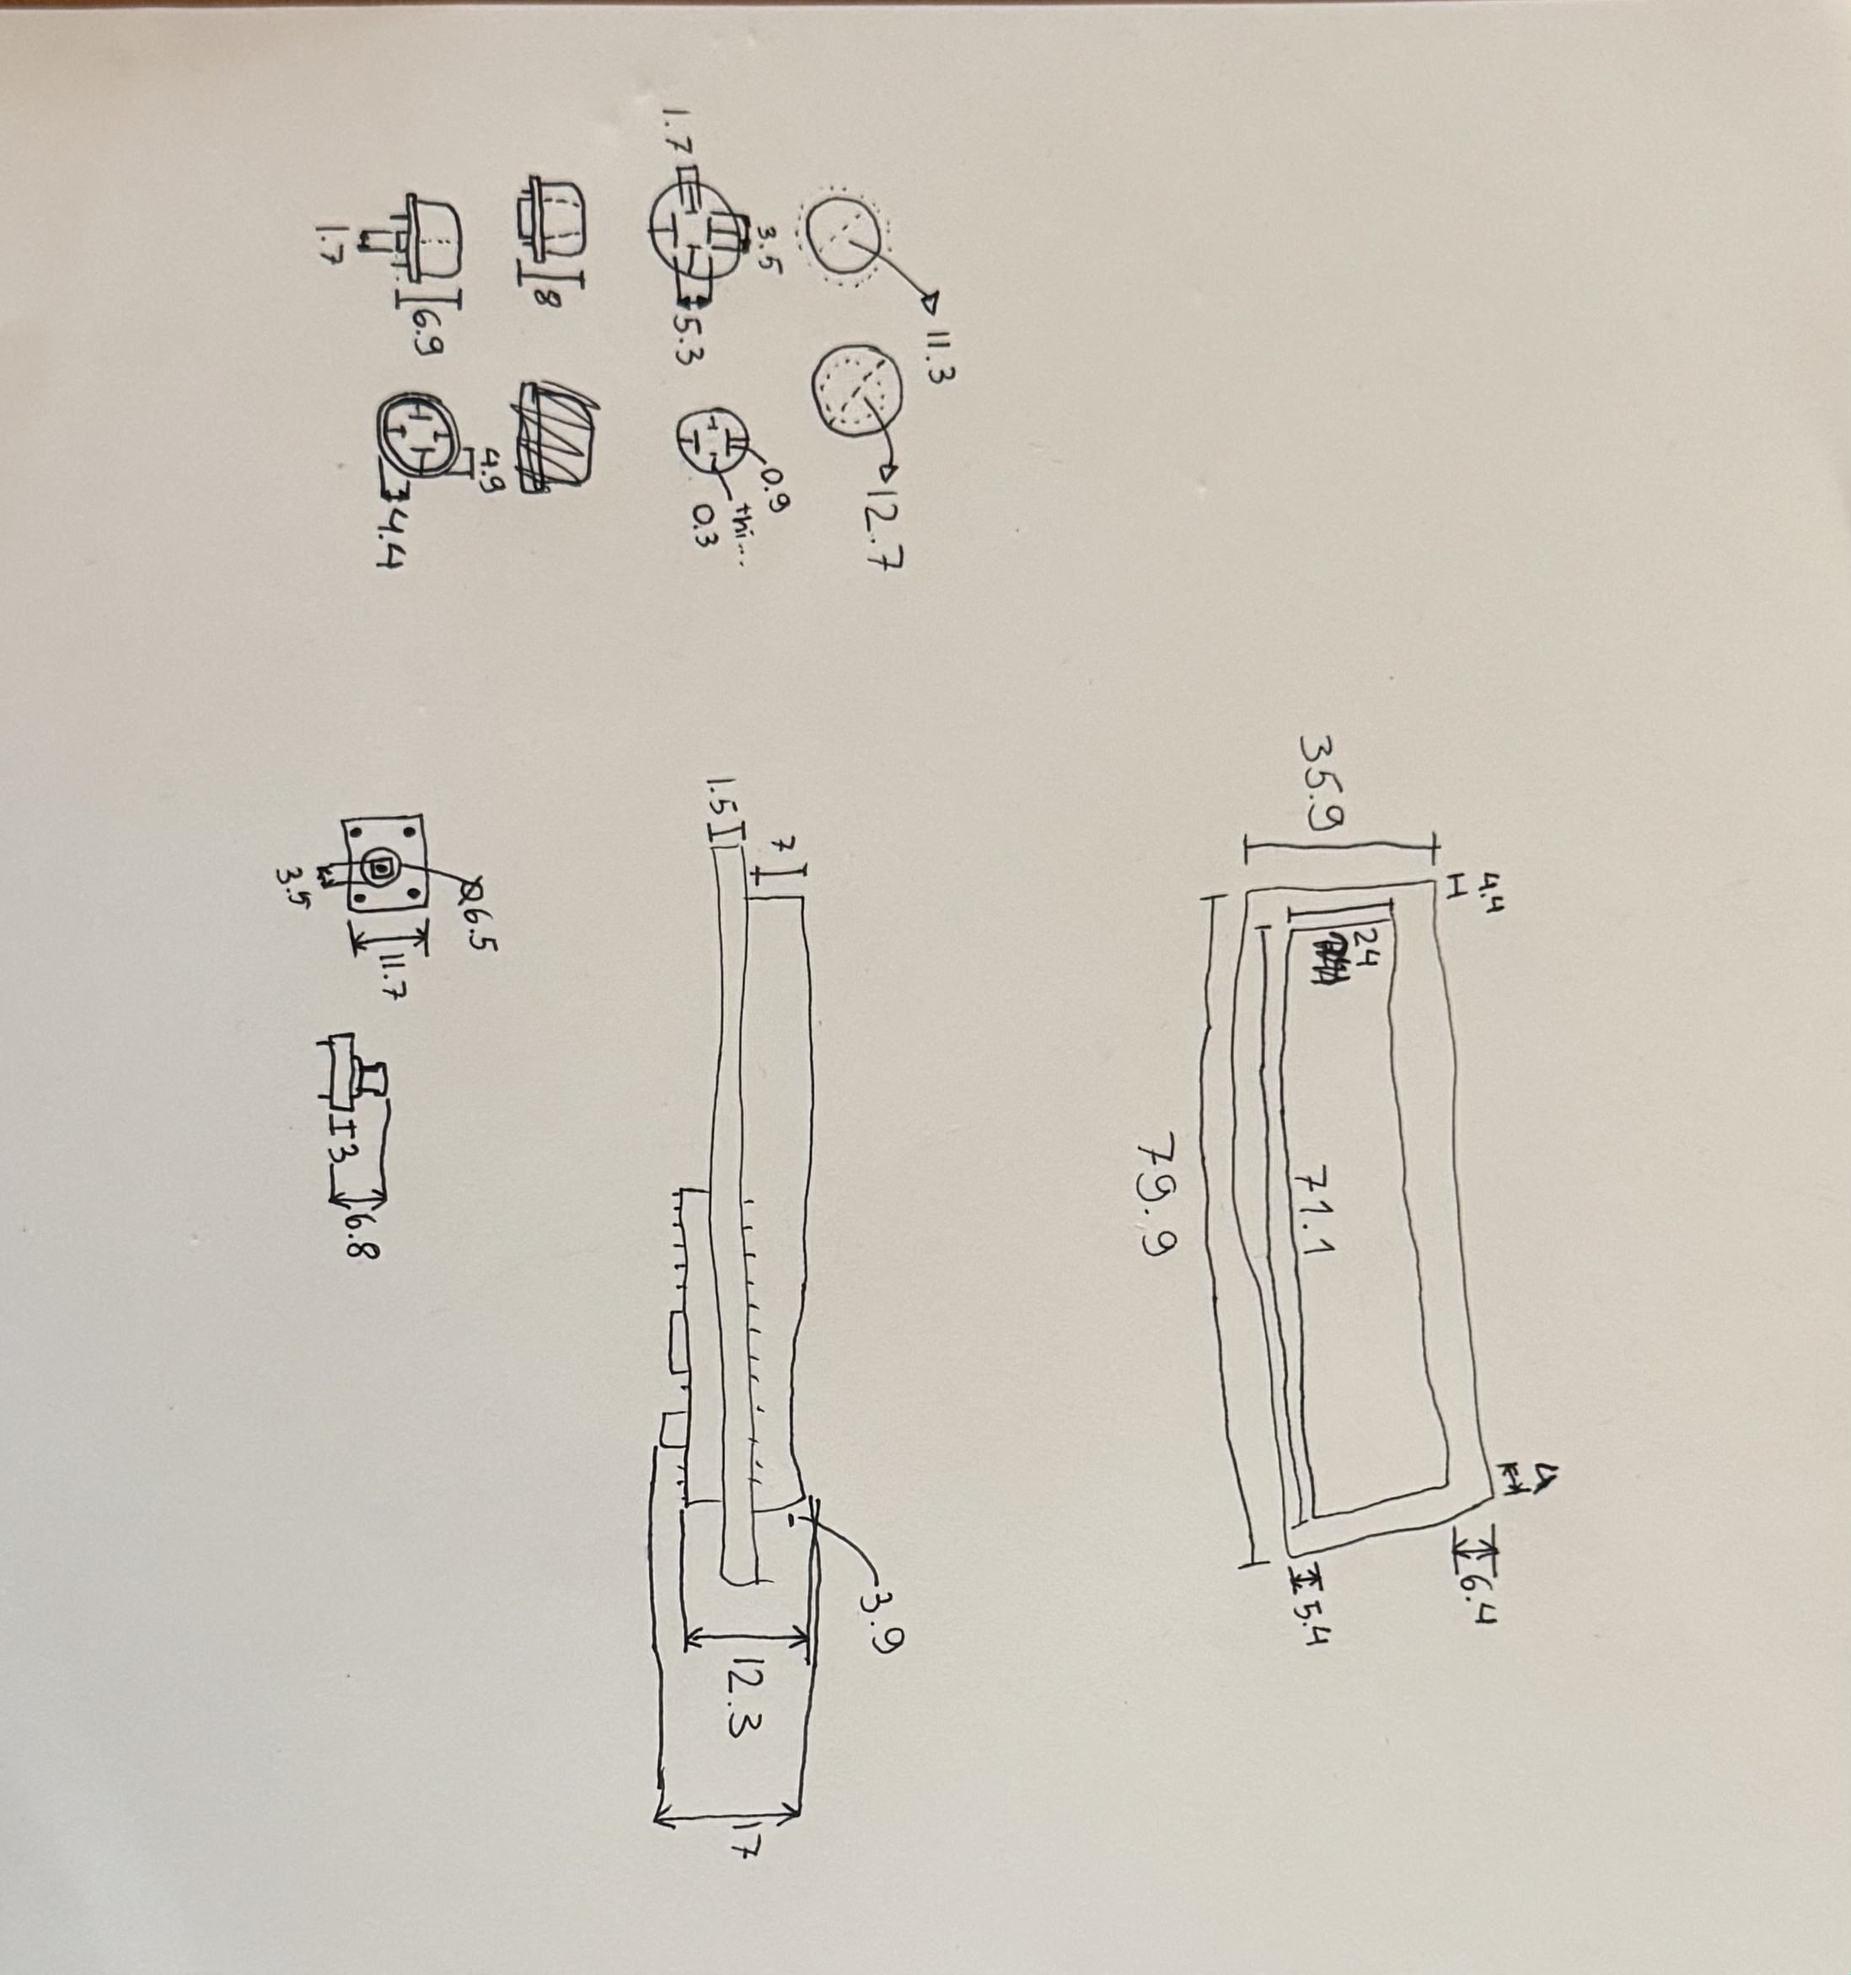
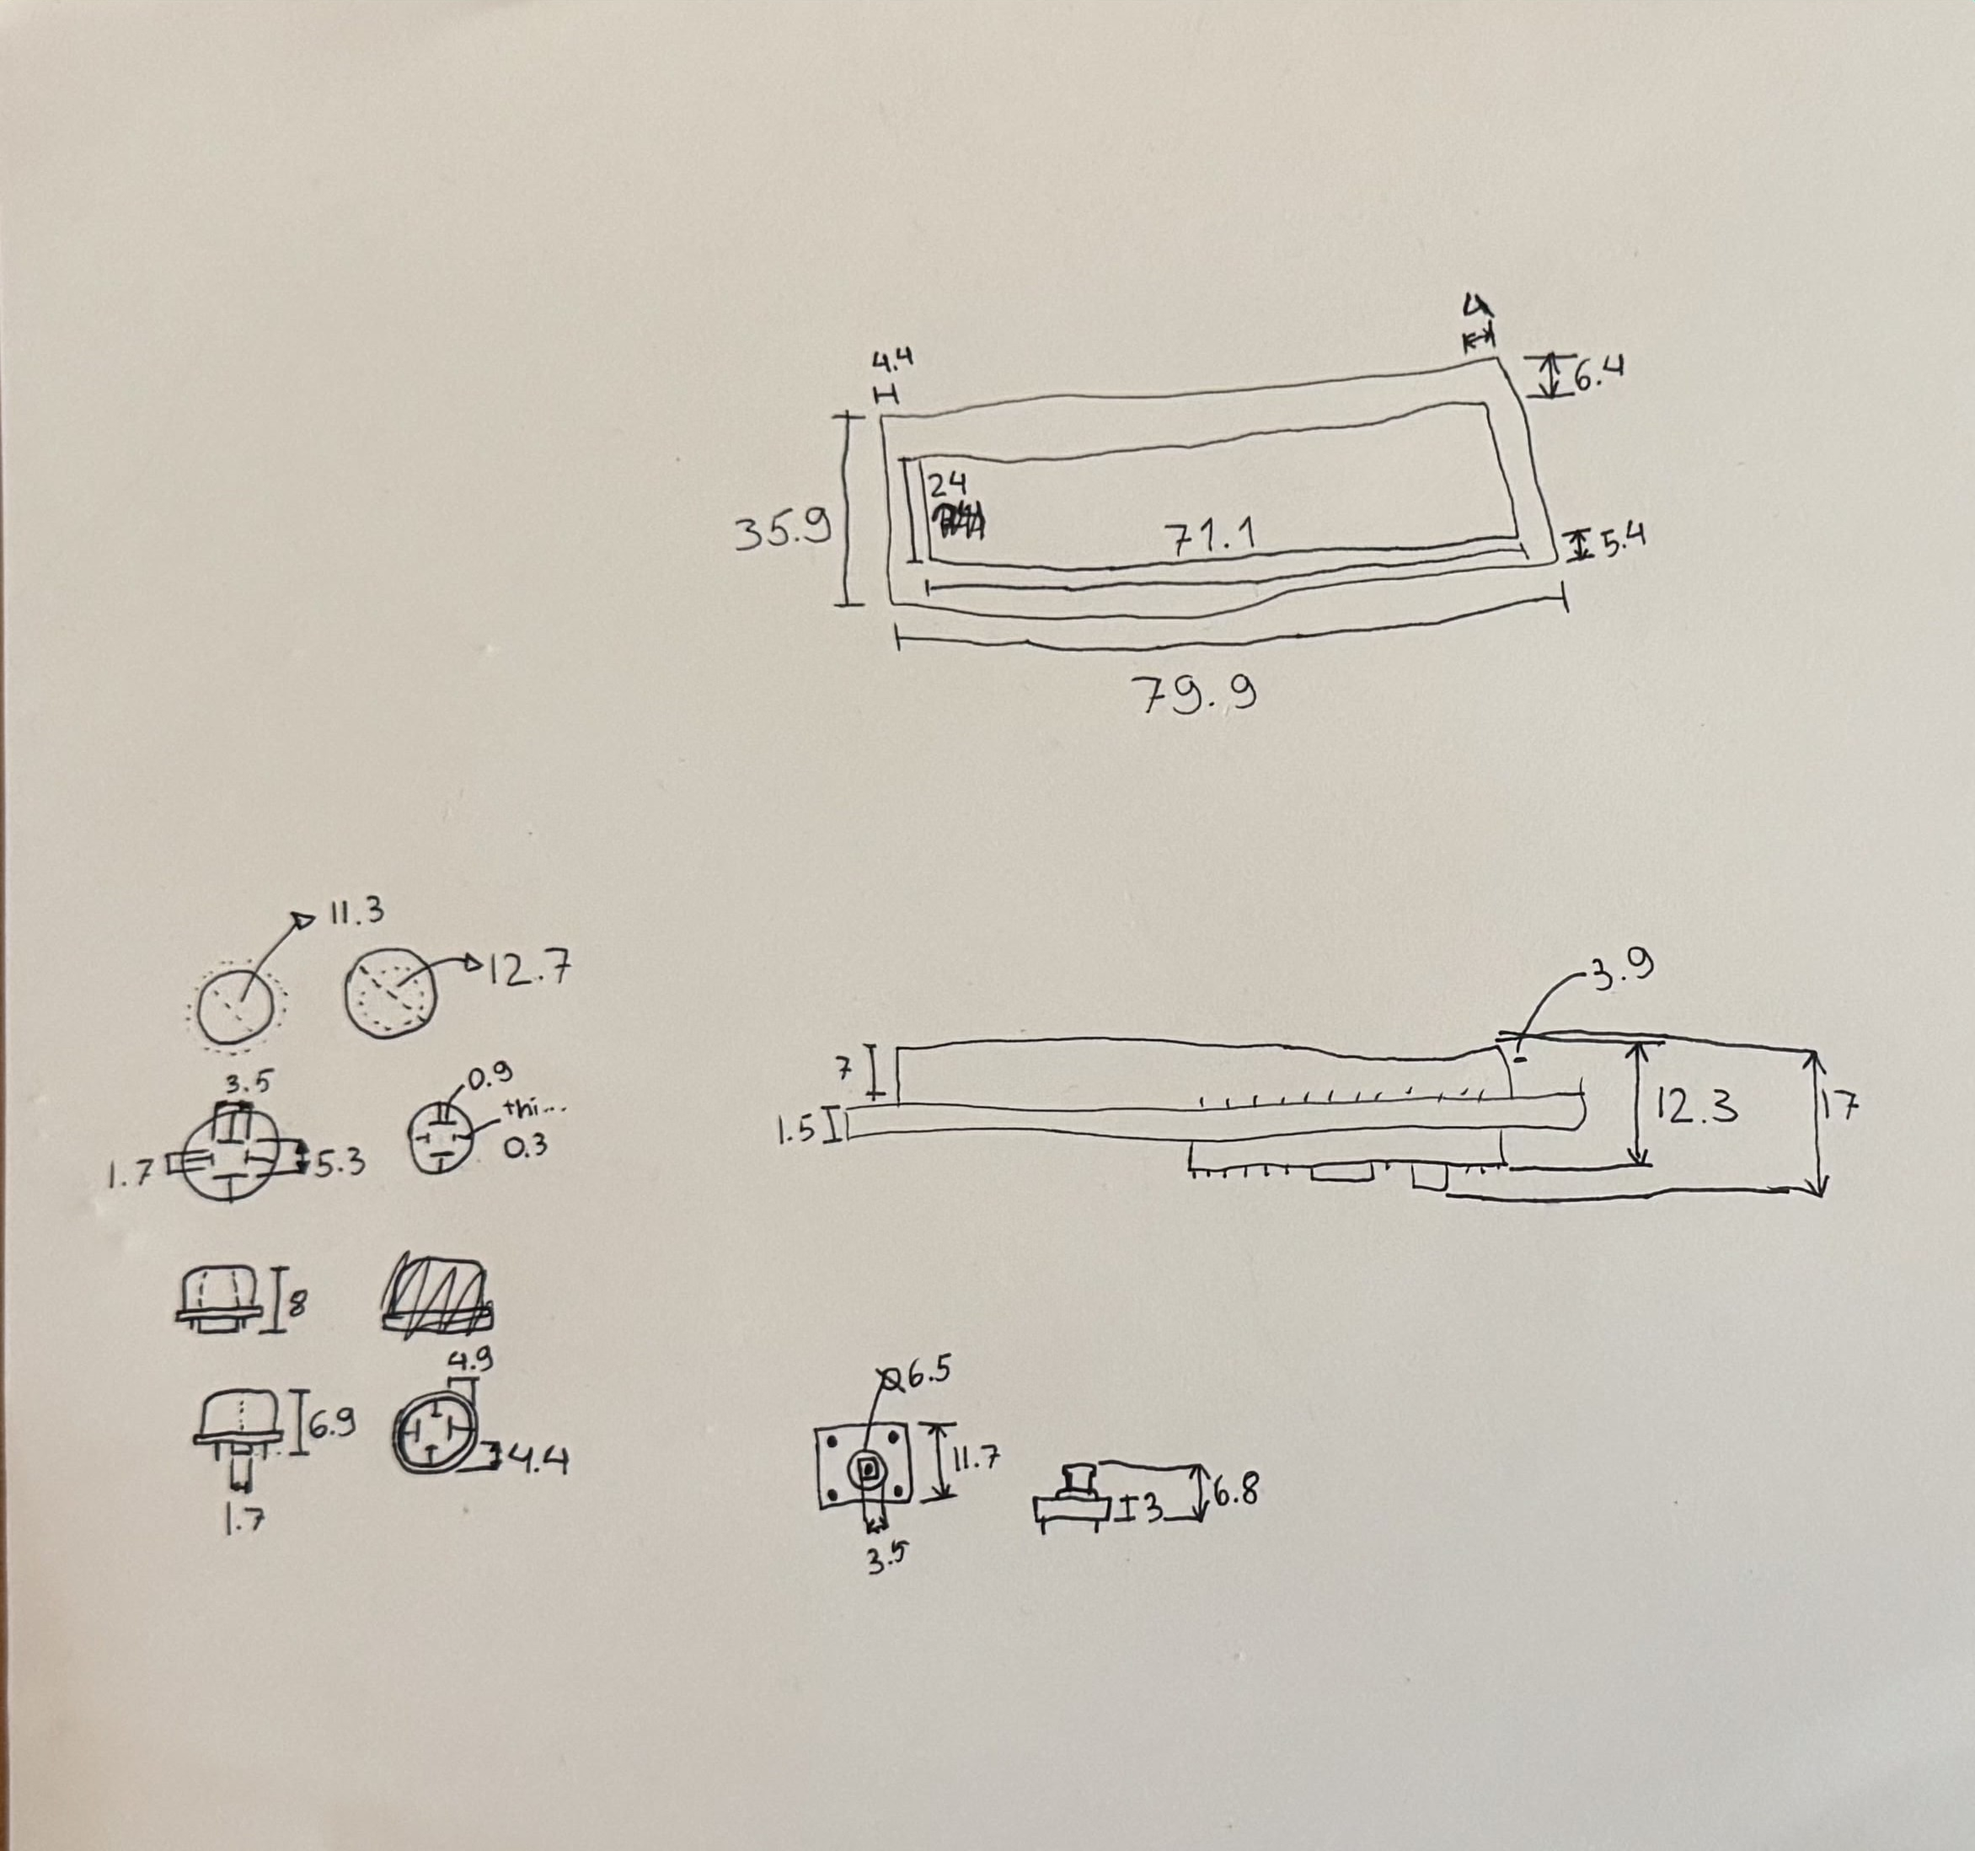
m

diff --git a/13_finalproject/index.html b/13_finalproject/index.html
@@ -28,6 +28,15 @@
 The idea I decided to pursue for the final project was making fun kitchen timer that is enclosed in a 3d printed duck. Its function is to be a helper when cooking/baking so it warns you before your time is done in order to make sure that you check on your progress and making sure nothing burns or overcooks. 
 The process: I started with what I thought would be the hardest part which was the coding. I used a LCD screen, buttons and a speaker to code a timer. The next step was making the CAD design to package everything in a nice way. 
 
+
+<p class = "margin"></p>
+I then started measuring my components in order to better design the overall packaging of my project. I found this to be a lot harder then I expected. 
+<img src="./LCD-box.jpg" alt="LCD-box" width="700">
+<img src="./button-LCD-me.jpg" alt="button-LCD-me" width="700">
+
+<p class = "margin"></p>
+Then I started thinking of the movements that I wanted the duck to make. With that I started designing the mechanism with gears. 
+
 </div>
 </xmp>
 </body>
